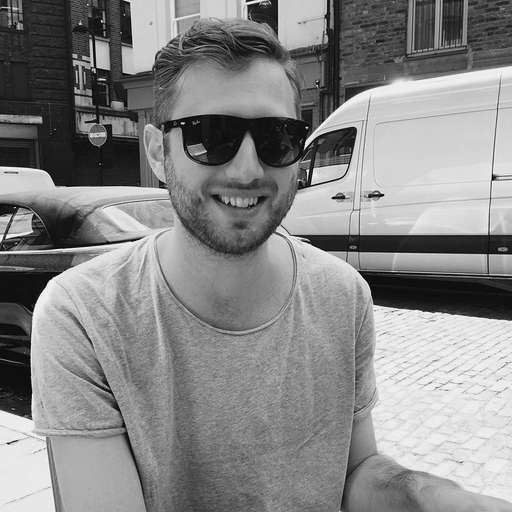
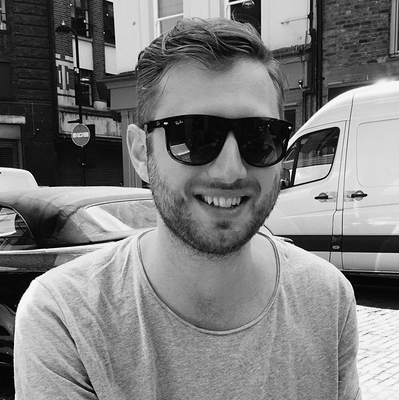
Update references info

diff --git a/src/components/GridItems/ReferencesItem/index.tsx b/src/components/GridItems/ReferencesItem/index.tsx
@@ -4,13 +4,14 @@ import { motion } from "framer-motion";
 
 import references from "../../../assets/json/references.json";
 import chrisImg from "../../../assets/img/chris.webp";
+import johnnyImg from "../../../assets/img/johnny.webp";
 import Card from "../../Card";
 import type { GridActionItemProps } from "../types";
 import styles from "./styles.module.css";
 
 const IMAGES: Record<string, string> = {
   chris: chrisImg,
-  johnny: chrisImg,
+  johnny: johnnyImg,
 };
 
 const ANIMATION_DURATION = 0.5;
@@ -106,18 +107,31 @@ const ReferencesItem: FC<GridActionItemProps> = ({
   };
 
   return (
-    <Card
-      title="References"
-      inTransition={inTransition}
-      expanded={active}
-      setExpanded={setActive}
-    >
-      <div className={styles.referencesItem}>
-        <div className={styles.referencesContent}>
-          {references.map(renderReference)}
+    <>
+      <Card
+        title="References"
+        inTransition={inTransition}
+        expanded={active}
+        setExpanded={setActive}
+      >
+        <div className={styles.referencesItem}>
+          <div className={styles.referencesContent}>
+            {references.map(renderReference)}
+          </div>
         </div>
-      </div>
-    </Card>
+      </Card>
+
+      {/* Preload images */}
+      {references.map((reference) => (
+        <img
+          src={IMAGES[reference.imageKey]}
+          alt={reference.name}
+          height={0}
+          width={0}
+          style={{ display: "none" }}
+        />
+      ))}
+    </>
   );
 };
 
